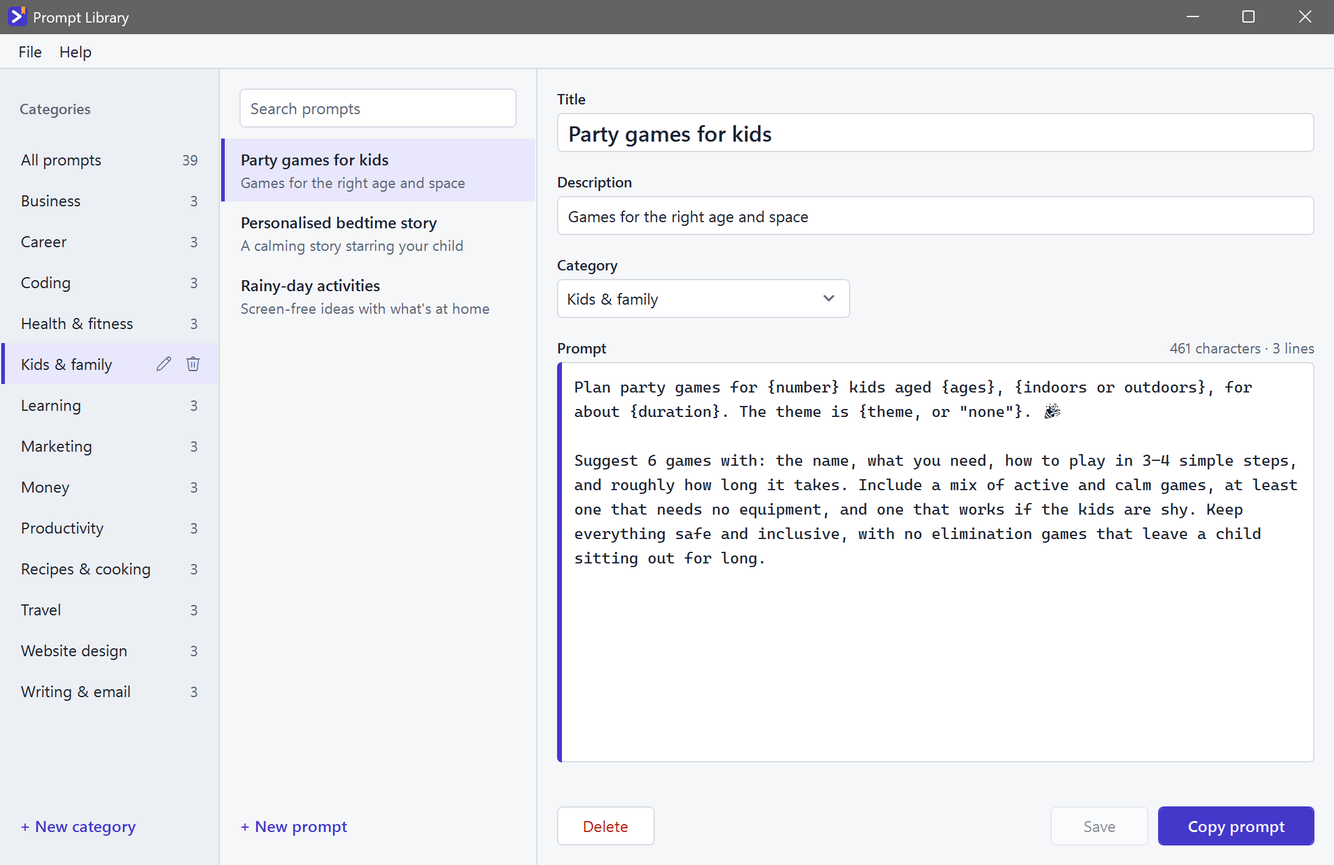
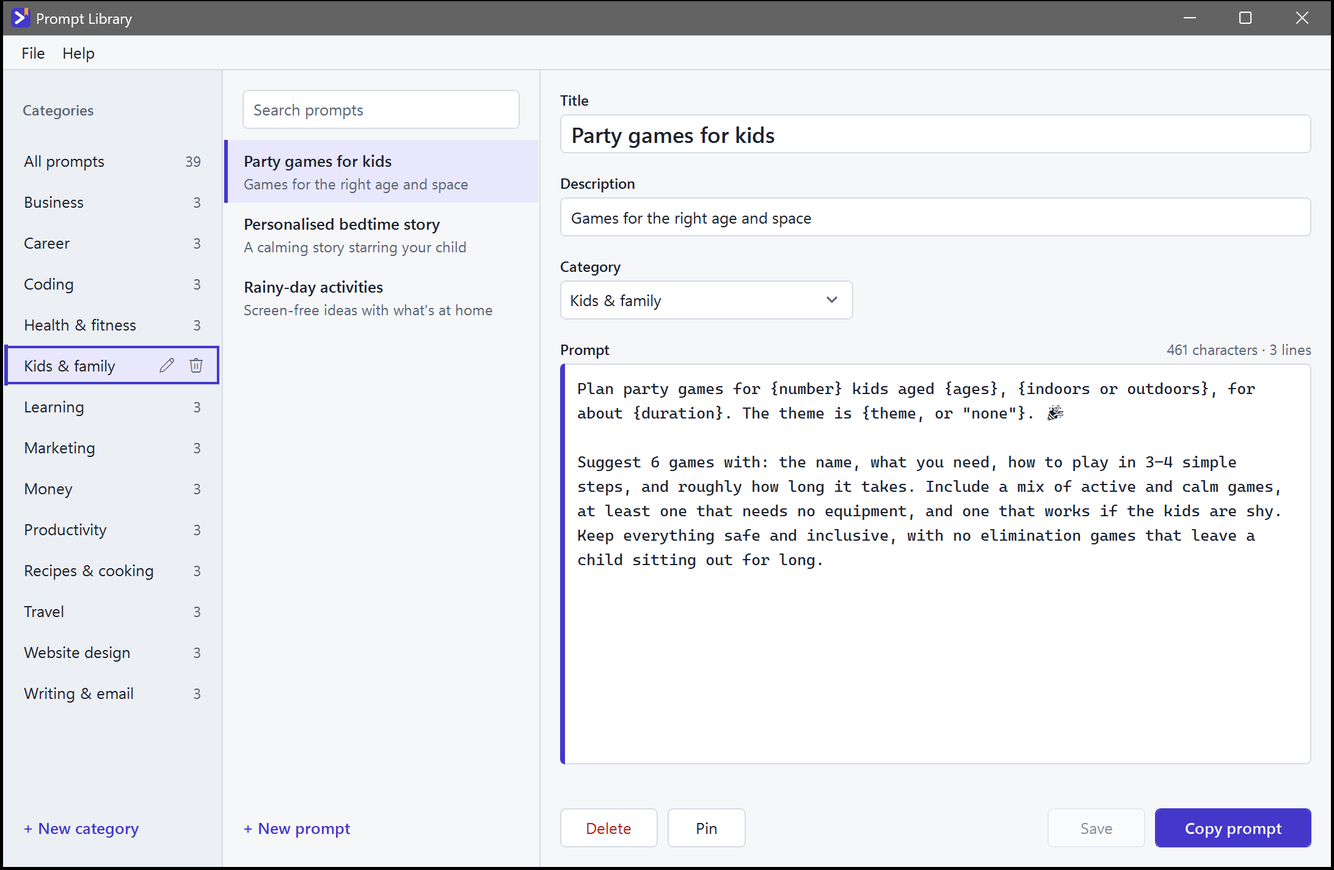
docs: team prompts; release 1.1.0
- README: Team prompts section with new screenshots (Acme best practice demo
  library), team privacy line, setup step 3 of 5, a "How does a team share
  prompts?" answer, re-shot main-window images (the editor now shows Pin),
  version badge 1.1.0.
- DEVELOPMENT.md: Team library section (file format, sources and links,
  saving and history, sync conflicts, write probe, refresh, offline copy,
  per-PC state, Start, testing by hand) and team-cache.json in the data table.
- manual-test-checklist.md: Team prompts section; setup is now 5 steps.
- ui-review-results.md: round 4 scores for every new or changed screen.
- Version 1.1.0.

diff --git a/docs/manual-test-checklist.md b/docs/manual-test-checklist.md
@@ -5,14 +5,15 @@ Run on a real Windows PC with the Release exe (`publish\PromptLibrary.exe`) or t
 Tip: to start clean, exit the app and delete `%APPDATA%\PromptLibrary`. Release builds add a `PromptLibrary` value under `HKCU\Software\Microsoft\Windows\CurrentVersion\Run`; remove it afterwards if you don't want startup.
 
 ## First run & setup
-- [ ] Start with no `%APPDATA%\PromptLibrary`. Expected: the "Welcome to Prompt Library" wizard opens at step 1 of 4, and no tray balloon appears.
-- [ ] A tray icon is present; hovering shows `Prompt Library (Ctrl+Alt+P)`. The library holds 12 sample prompts.
+- [ ] Start with no `%APPDATA%\PromptLibrary`. Expected: the "Welcome to Prompt Library" wizard opens at step 1 of 5, and no tray balloon appears.
+- [ ] A tray icon is present; hovering shows `Prompt Library (Ctrl+Alt+P)`. The library holds 39 starter prompts in 13 categories.
 - [ ] Wizard step 2: press Ctrl+Alt+P. Expected: a check line confirms it. After the wizard closes, the same keys open the quick menu.
 - [ ] Step 2: Change shortcut, press Ctrl+Alt+K. Expected: keycaps update and "Saved. Try it now..." appears. Esc in the box cancels only the capture; a second Esc skips the wizard.
 - [ ] Step 2: choose a combination another app owns (start another hotkey tool first). Expected: "That shortcut is in use by another app." and it keeps listening.
 - [ ] Step 2: Alt+F4 while listening closes the window. Enter moves through the steps.
-- [ ] Step 3: pick a backup card, or Choose another folder with a scratch folder. Expected: it backs up and shows success. Keyboard focus lands on the selected card.
-- [ ] Step 4: untick paste and finish. Expected: Settings shows paste off. Closing the wizard with x from any step skips it safely and it does not reappear on the next start.
+- [ ] Step 3: Next without joining. Expected: no team switch afterwards. (Joining from here is in Team prompts below.)
+- [ ] Step 4: pick a backup card, or Choose another folder with a scratch folder. Expected: it backs up and shows success. Keyboard focus lands on the selected card.
+- [ ] Step 5: untick paste and finish. Expected: Settings shows paste off. Closing the wizard with x from any step skips it safely and it does not reappear on the next start.
 - [ ] Leave the wizard early while the shortcut is taken by another app. Expected: the tray shows the "in use by another app" message once. With no conflict, no message.
 - [ ] Settings, Change shortcut, press a combination another app owns. Expected: "That shortcut is in use by another app."; normal typing in other apps is unaffected.
 
@@ -76,6 +77,46 @@ Build an older version first (`dotnet build src/PromptLibrary.App -p:Version=1.0
 - [ ] Help → Check for updates… with the network off. Expected: "Couldn't check for updates…". With it on: the dialog, even after Not now.
 - [ ] Update now (installed build, with unsaved edits open). Expected: download progress, then "Save changes?"; Cancel keeps the app running. Save: the app closes, the installer opens, and after it finishes the new version starts.
 - [ ] Run the current version. Expected: no notification and no reminder.
+
+## Team prompts
+
+Use stand-in folders, never a real shared folder: run with `PROMPTLIBRARY_DEBUG_NO_CLOUDS=1` (Debug) and back up `%APPDATA%\PromptLibrary` first. Make folders `team-a` and `team-b` somewhere outside OneDrive / Google Drive / Dropbox.
+
+**Solo user**
+- [ ] Not joined. Expected: no Your/Team switch, no Team block or headings in the shortcut menu; Settings shows "Team prompts" with Join a team library and Start a team library; the editor shows Pin.
+
+**Start and join**
+- [ ] Settings → Start a team library: a folder that doesn't exist. Expected: "Can't reach that folder. Check the path, and that the drive or network is connected."
+- [ ] Start in `team-a`, name "Acme best practice", "Add example business prompts" ticked. Expected: `team-a\team-prompts.json` is written, the switch appears, the Team side shows 24 prompts in 6 categories, Settings shows "Connected to Acme best practice", the folder and "Updated today, …".
+- [ ] Start again in `team-a` from another PC or after leaving. Expected: "This folder already has a team library (Acme best practice)." with Join it; the file is not overwritten.
+- [ ] Copy `team-prompts.json` to `team-b` and run `attrib +r team-prompts.json` there. Leave, then Join `team-b`. Expected: "Checking…" with a progress bar while it reads; the Team header shows "Read only" (no Edit team library, no ⋯); nothing is marked New on first join.
+- [ ] Join a folder holding some other JSON file named `team-prompts.json`. Expected: "That isn't a Prompt Library team file." and nothing changes. Join `\nohost\share`. Expected: "Checking…", then "Can't reach that folder…".
+- [ ] Join a OneDrive or Google Drive share link. Expected: "That link opens a web page, not the file…".
+
+**Members**
+- [ ] Ctrl+2 shows Team prompts and Ctrl+1 Your prompts. The open team prompt has the lock line "Team prompt · Acme best practice · read only"; title, description and prompt read as normal text, not greyed.
+- [ ] Copy prompt on a team prompt (the button and Ctrl+Shift+C). Expected: copied, as for your own.
+- [ ] Make my copy on "Follow-up email after a meeting". Expected: one click, the window switches to Your prompts with the copy open in a "Sales" category, status "Copied to your prompts · Sales".
+- [ ] Pin two prompts (one yours, one the team's). Expected: "Pinned", a pin glyph on the rows, a flat Pinned block at the top of the shortcut menu with the team icon on the team one. Pin an 11th. Expected: "You can pin up to 10 prompts."
+- [ ] Hide from menu on a team prompt. Expected: "Hidden from the menu", it leaves the list and the shortcut menu, "Show hidden (1)" appears under the search box; ticking it lists the prompt greyed; right-click → Unhide brings it back ("Unhidden").
+- [ ] Right-click a team row. Expected: Pin / Unpin and Hide from menu / Unhide. On a hidden row Pin is disabled.
+- [ ] Search "email" on either side. Expected: results from both, team ones with the team icon; opening a result from the other side switches sides and keeps the search text.
+- [ ] Shortcut menu: "Team prompts" heading, the team categories with the team icon, then "Your prompts" and your categories. With 7 or more team categories the team block is one "Team prompts ▸" submenu.
+- [ ] Another editor adds a prompt. Expected: within a few seconds a "New" tag and a dot on the Team switch; a changed prompt shows "Updated"; opening it or Mark all as seen clears them.
+
+**Editors** (joined to `team-a`)
+- [ ] Edit team library. Expected: the bar "Editing team library: changes go to everyone · Done", and Delete · Pin | Save · Copy prompt in the editor. Fix a typo and Save. Expected: "Saved for everyone", and a copy of the old file in `team-a\Prompt Library history\`.
+- [ ] Delete a team prompt. Expected: "Delete "…"? This removes it for everyone." first.
+- [ ] Mid-edit, change `team-prompts.json` in a text editor, then Save in the app. Expected: "Someone else changed the team library, so it's been reloaded. Your change is still here: check it and save again." Your typed text is still in the editor; Save again keeps both changes.
+- [ ] ⋯ → Restore an older version…. Expected: versions listed "Today, 08:36 · 24 prompts", newest first; Restore asks first, then "Restored for everyone".
+- [ ] Copy `team-prompts.json` to `team-prompts-LAPTOP.json`. Expected: "Two versions of the team library found · Review". Review lists "Other version from sync · …" first. Keep current version (or Restore it). Expected: the notice clears and the copy moves into the history folder.
+- [ ] Close the window while editing. Expected: edit mode ends; unsaved text gets the usual "Save changes?".
+
+**Offline and leaving**
+- [ ] Rename `team-a` and restart the app. Expected: the Team prompts still show; the header reads "Last updated … · can't reach the team library · Retry"; Settings shows the reason with Retry. Rename it back and press Retry. Expected: back to "Acme best practice · updated …".
+- [ ] Settings → Leave team library → Leave. Expected: the switch, Team block and pins on team prompts are gone; `%APPDATA%\PromptLibrary\team-cache.json` is deleted; your copies stay.
+- [ ] Setup guide (Help → Setup guide…), step 3 of 5 "Does your team share prompts?": Join a team library and Start a team library open the same dialogs; Next skips; once joined it shows "Connected to …".
+- [ ] Minimum window size (860×520) on the Team side, in edit mode and with a new prompt. Expected: nothing cut off (the window's minimum height grows while the switch and edit bar show).
 
 ## Scaling & accessibility
 - [ ] At 100%, 150% and 200% display scaling (sign out and in after changing): main window, quick menu, Settings, Restore and the wizard are sharp, nothing is clipped, and the minimum window size still works.

diff --git a/README.md b/README.md
@@ -17,7 +17,7 @@ ChatGPT, Claude, Copilot, your terminal, your IDE: one library for all of them.
   <img src="https://img.shields.io/badge/Windows-10%20%7C%2011-4338CA" alt="Windows 10 and 11" />
   <img src="https://img.shields.io/badge/no%20account-no%20tracking-F5A524" alt="No account, no tracking" />
   <img src="https://img.shields.io/badge/installs%20without-admin%20rights-1B2230" alt="Installs without admin rights" />
-  <img src="https://img.shields.io/badge/version-1.0.2-4338CA" alt="Version 1.0.2" />
+  <img src="https://img.shields.io/badge/version-1.1.0-4338CA" alt="Version 1.1.0" />
   <a href="LICENSE"><img src="https://img.shields.io/badge/license-GPL--3.0-4338CA" alt="License: GPL-3.0" /></a>
 </p>
 
@@ -89,7 +89,7 @@ You've written a prompt that works. Then it disappears into a notes app, a chat 
     </td>
     <td width="50%" valign="top">
       <h3>🔒 Private by default</h3>
-      <p>No account. No sign-in. No tracking. Your prompts live on your PC and in the backup folder you choose, and nowhere else. Once a day the app asks GitHub whether a newer version exists; nothing about you or your prompts is sent.</p>
+      <p>No account. No sign-in. No tracking. Your prompts live on your PC and in the backup folder you choose, and nowhere else. If you join a team library, the app only reads the team's shared file; your own prompts are never written to it. Once a day the app asks GitHub whether a newer version exists; nothing about you or your prompts is sent.</p>
     </td>
   </tr>
   <tr>
@@ -100,9 +100,46 @@ You've written a prompt that works. Then it disappears into a notes app, a chat 
 
 <br/>
 
+## Share best-practice prompts with your team
+
+**New in 1.1.** One person keeps the team's proven prompts in a shared folder (a network drive, or a OneDrive, Google Drive or Dropbox folder) and everyone gets them, in the main window, in search and in the shortcut menu. Team prompts update by themselves, keep working offline, and can't be changed by accident. Your own prompts stay yours, right next to them.
+
+<table>
+  <tr>
+    <td width="50%" valign="top">
+      <h3>👥 Team prompts, side by side with yours</h3>
+      <p>Switch between <b>Your prompts</b> and <b>Team prompts</b> (<kbd>Ctrl</kbd> + <kbd>1</kbd> / <kbd>Ctrl</kbd> + <kbd>2</kbd>). Team prompts carry a team icon and open read only. <b>Make my copy</b> gives you your own version to change, <b>Pin</b> puts favourites at the top of the menu, and <b>Hide from menu</b> tidies away the ones you don't use. New and updated prompts get a quiet tag until you've seen them.</p>
+    </td>
+    <td width="50%" valign="top">
+      <h3>✏ Curated in the app, safely</h3>
+      <p>Whoever can change files in the shared folder can choose <b>Edit team library</b>: every save goes to everyone. Nobody overwrites anyone: if someone else saved first, your change is kept and you save again. Every save keeps a copy, so <b>Restore an older version</b> undoes anything, and copies left by file sync can be reviewed.</p>
+    </td>
+  </tr>
+  <tr>
+    <td><img src="docs/images/team-prompts.png" alt="The Team prompts side: Acme best practice, a read-only team prompt with Copy prompt and Make my copy" /></td>
+    <td><img src="docs/images/team-editing.png" alt="Editing the team library: the bar says changes go to everyone" /></td>
+  </tr>
+  <tr>
+    <td width="50%" valign="top">
+      <h3>🔗 Join with one box</h3>
+      <p>Settings → Team prompts → <b>Join a team library</b>, paste or browse to the shared folder (or a direct link to the file), and Join. Starting one is just as quick: pick the folder, name it, and begin with 24 example business prompts for sales, support, marketing, management, HR and operations, or copy in your own categories.</p>
+    </td>
+    <td width="50%" valign="top">
+      <h3>⌨ In the shortcut menu too</h3>
+      <p>Pinned prompts come first, then the team's categories and your own, under "Team prompts" and "Your prompts" headings. A big team library folds into one submenu, so it never pushes your own prompts off the screen.</p>
+    </td>
+  </tr>
+  <tr>
+    <td><img src="docs/images/team-join.png" alt="Join a team library: one box for a shared folder, file or link" /></td>
+    <td align="center"><img src="docs/images/team-menu.png" alt="The shortcut menu with pinned prompts, team categories and your categories" width="300" /></td>
+  </tr>
+</table>
+
+<br/>
+
 ## Ready in under a minute
 
-Install it, and a short setup gets you going: try the shortcut, pick where backups go, and you're done. You start with 39 ready-made prompts across 13 categories, from marketing and business to recipes, travel, kids' games and personal productivity, so it's useful from the first minute.
+Install it, and a short setup gets you going: try the shortcut, join your team's prompts if it shares them, pick where backups go, and you're done. You start with 39 ready-made prompts across 13 categories, from marketing and business to recipes, travel, kids' games and personal productivity, so it's useful from the first minute.
 
 <table>
   <tr>
@@ -117,8 +154,8 @@ Install it, and a short setup gets you going: try the shortcut, pick where backu
     <td><img src="docs/images/setup-shortcut.png" alt="Setup, step 2: try the shortcut" /></td>
   </tr>
   <tr>
-    <td><img src="docs/images/setup-backups.png" alt="Setup, step 3: choose where backups go" /></td>
-    <td><img src="docs/images/setup-done.png" alt="Setup, step 4: you're all set" /></td>
+    <td><img src="docs/images/setup-team.png" alt="Setup, step 3: join or start a team library, or skip" /></td>
+    <td><img src="docs/images/setup-done.png" alt="Setup, step 5: you're all set" /></td>
   </tr>
 </table>
 
@@ -131,6 +168,7 @@ Install it, and a short setup gets you going: try the shortcut, pick where backu
 - **Students and lifelong learners** turning any topic into a plan, an explanation or a quiz.
 - **Job seekers** tailoring a CV, practising interviews and preparing to ask for a raise.
 - **Developers** pasting go-to prompts straight into Claude Code, Copilot Chat or the terminal.
+- **Small teams** (about 5 to 50 people) who want everyone using the same proven prompts.
 - **Anyone** who's tired of rewriting the same instructions from memory.
 
 <details>
@@ -190,6 +228,12 @@ Each one fills in your details through `{placeholders}`, tells the AI exactly wh
   <summary><b>Can I just copy, without the automatic paste?</b></summary>
   <br/>
   Yes. Turn off "Paste into the app I was using" in Settings, and picking a prompt only copies it.
+</details>
+
+<details>
+  <summary><b>How does a team share prompts?</b></summary>
+  <br/>
+  One person chooses Settings → Team prompts → <b>Start a team library</b> and picks a folder the team can open (a network drive, or a shared OneDrive, Google Drive or Dropbox folder). Everyone else chooses <b>Join a team library</b> and picks the same folder. A public link to the file also works if it opens the file itself (a GitHub raw link or a Dropbox link); OneDrive and Google Drive share pages don't, so use the synced folder. Who can edit is decided by the folder's own sharing: if your PC can change the file, you see <b>Edit team library</b>.
 </details>
 
 <details>

diff --git a/docs/DEVELOPMENT.md b/docs/DEVELOPMENT.md
@@ -60,6 +60,22 @@ The app asks GitHub for the latest release (`GET /repos/{owner}/{repo}/releases/
 - **Releases** therefore need the MSI attached as an asset; GitHub adds the `digest` automatically.
 - **To test against a real release,** build an older version: `dotnet build src/PromptLibrary.App -p:Version=1.0.0`, then run with both debug switches above and use Help → Check for updates…. Back up `%APPDATA%\PromptLibrary` first and delete `update-check.json` to start fresh.
 
+### Team library
+
+A team shares one file, `team-prompts.json`, in a shared folder (network drive, or a OneDrive / Google Drive / Dropbox synced folder) or at a public https link. Members see it read-only on the **Team prompts** side; anyone whose PC can write to the file can choose **Edit team library**. The code is in `src/PromptLibrary.Core/Team/` (format, reading, writing, pins and markers) and `src/PromptLibrary.App/Team/TeamLibraryService.cs` (refresh, offline copy, joining, saving).
+
+- **File format:** the same shape as `library.json` (`schemaVersion`, `categories`, `prompts` with GUID IDs and `createdAt` / `updatedAt`), plus `"kind": "prompt-library-team"`, a `name` (for example "Acme best practice") and an `updatedAt`. Unknown fields are kept when the app saves, so a later version can add some. A file with a higher `schemaVersion` can still be viewed but not edited.
+- **Sources:** one box takes a folder (the app looks for `team-prompts.json` in it), the file itself, or an https link. A link must return the file: GitHub raw links and Dropbox links work (Dropbox `dl=0` is rewritten to `dl=1`, GitHub `/blob/` to raw). A link that returns a web page (OneDrive and Google Drive share pages) is refused with a message saying so. Links are https only, no sign-in, 15 s time limit, 2 MB cap, the normal `PromptLibrary/<version>` User-Agent, and never a redirect to http.
+- **Saving (editors):** before each save the app re-reads the file and compares its SHA-256 with the one it loaded. If someone else changed it, the save is refused, the library reloads and the typed change stays in the editor to save again. Otherwise the current file is copied to `Prompt Library history\team-prompts <yyyy-MM-dd_HHmmss>.json` next to it (the newest 30 are kept) and the new file is written atomically. **⋯ → Restore an older version…** lists that history.
+- **Sync conflicts:** sibling files named `team-prompts*.json` (OneDrive's `team-prompts-PCNAME.json`, Dropbox's `… (conflicted copy …).json`) make editors see "Two versions of the team library found · Review". Restoring one, or **Keep current version**, moves the copies into the history folder.
+- **Write access** is a probe: the file is opened for writing without changing it, at connect, on each refresh and on Retry. Non-writers see "Read only".
+- **Refresh:** at start (from the offline copy first, then the source), every hour, two seconds after a change to a local or synced file (a file watcher), and on **Retry**. Nothing is read on the UI thread. While an editor has the library unlocked, refreshes wait until **Done**. Bad or unreadable data never replaces the last good copy; the Team header then says "can't reach the team library" with Retry, only after a read has failed.
+- **Offline copy:** `%APPDATA%\PromptLibrary\team-cache.json` holds the last good file, when it was read and from where. Personal backups never include team prompts: the shared file is the master and its history is the team's backup.
+- **Per PC** (in `settings.json`): `teamSource`, `pinnedPromptIds` (either library, at most 10), `hiddenTeamPromptIds`, `seenTeamPrompts` (what drives the New / Updated tags) and `teamBaselineTaken`. On first join nothing is marked new. **Leave team library** clears all of these and the offline copy; copies made with **Make my copy** stay.
+- **Start a team library** writes a new file only into a folder that hasn't got one (otherwise it offers **Join it**). It can copy in some of your categories (with new IDs) and, by default, 24 business example prompts in 6 categories (`TeamSeedLibrary`).
+
+**Testing a team by hand.** Never point a test at a real shared folder. Make two stand-in folders anywhere outside your cloud folders, run the app with `PROMPTLIBRARY_DEBUG_NO_CLOUDS=1`, and **Start a team library** in the first (name it "Acme best practice"). Copy its `team-prompts.json` to the second folder and run `attrib +r team-prompts.json` there to get a read-only member. Edit the file in a text editor while the app is in edit mode to try a refused save, copy it to `team-prompts-LAPTOP.json` to try a sync conflict, and rename the folder to try offline. Back up `%APPDATA%\PromptLibrary` first: the app has no switch to use another data folder. The steps are in [manual-test-checklist.md](manual-test-checklist.md#team-prompts).
+
 ### Manual checks
 
 Some things only a real desktop can show (auto-paste into other apps, notifications, display scaling). They're listed in [manual-test-checklist.md](manual-test-checklist.md) and [edge-cases.md](edge-cases.md).
@@ -95,6 +111,7 @@ The MSI installs per user (no admin prompt) to `%LOCALAPPDATA%\Programs\Prompt L
 | `Safety backups\` | Copies made before a restore when backups are off |
 | `crash.log` | Details of any unexpected error |
 | `update-check.json` | When GitHub was last asked about updates, the newest release seen, and the version you said "Not now" to |
+| `team-cache.json` | The last good copy of the team library, for offline use (only while a team library is joined) |
 
 ## Design
 

diff --git a/docs/design/ui-review-results.md b/docs/design/ui-review-results.md
@@ -90,6 +90,47 @@ Everything round 1 flagged has been fixed and works when tested live. That inclu
 - The custom folder's card is still called "Folder".
 - The move list has no "Choose a category" placeholder.
 
+## Round 4: Team prompts (v1.1.0)
+
+**2026-11-07, Debug build of commit ef9fd82.** I scored every new or changed screen of the Team prompts feature from the running app, with `PROMPTLIBRARY_DEBUG_NO_CLOUDS=1`, at 200% (3840×2400), with the demo team library "Acme best practice" in two stand-in folders (one writable, one read-only). The PC was unlocked, so this round I could also send real keys (Tab, Ctrl+1, Ctrl+2, Enter, the Ctrl+Alt+P shortcut) and right-click. Method and weights as in rounds 2 and 3. Full notes and the screenshots: `.superpowers/sdd/2026-11-05-team-prompts/task-11-report.md` and `task-11-shots/`.
+
+### Scores
+
+| Screen | UI round 1 | UI after fixes | Simplicity | Result |
+|---|---|---|---|---|
+| Main window: Team side (member, read only) | 90.1 | 95.0 | 96.25 (main, both sides) | Pass |
+| Main window: Team side, editing | 88.0 | 94.9 | (main) | Pass |
+| Main window: Team side, offline + Retry | 88.9 | 95.8 | (main) | Pass |
+| Main window: search across both libraries | 95.0 | 95.0 | (main) | Pass |
+| Main window: Team side at the minimum size | 82.3 | 94.3 | (main) | Pass |
+| Main window: Your side with the switch | 95.6 | 95.6 | (main) | Pass |
+| Restore an older version (history) | 94.4 | 94.4 | 96.0 | Pass |
+| Restore an older version (review sync copies) | 94.9 | 94.9 | (history) | Pass |
+| Join a team library (empty, Checking…, errors) | 94.9 | 95.75 | 98.25 | Pass |
+| Start a team library | 93.9 | 93.9 | 96.0 | Pass |
+| Settings: Team prompts (not connected / connected / offline) | 86.85 | 93.8 | 95.0 | Pass |
+| Setup guide step 3 of 5 (not connected / connected) | 96.7 | 96.7 | 97.0 (setup guide) | Pass |
+| Shortcut menu with Pinned and Team blocks (criteria 1, 4, 8) | 96.5 | 96.5 | — | Pass |
+| Team delete / refused save / restore / leave questions (criterion 8) | 88.9 | 94.4 | — | Pass |
+
+Targets: UI ≥ 90 on every screen; simplicity ≥ 95 on the main window and the setup guide, ≥ 90 on dialogs. **All met after the fixes.** Main-window simplicity was 93.9 in round 1 (the library name was trimmed to "A…", the offline reason was hidden, and the refused-save message said to make the change again although it was kept).
+
+### Fixed in this round (commit ef9fd82)
+
+1. **Team header trimmed.** In the 260 px list column the header showed "Acme best practice…", "A…" next to Edit team library and Mark all as seen, and "Last updated today, 08…" with the reason cut off. It now sits on the switch's line, which spans the window: "Acme best practice · updated today, 08:40" after the switch, the actions at the right. Nothing is trimmed at 860 px.
+2. **Buttons cut off at the minimum size.** On the Team side the two-line button row lost Copy prompt; in edit mode and with a new prompt the whole row left the window. Read-only prompts drop the unused tab-hint row, and the window's minimum height grows by the switch and edit-bar heights (520 + bars).
+3. **Settings, connected.** "Connected to Acme best practice" was followed by "Connected", with no last update and no Retry, and Leave team library was below the fold. It now reads "Updated today, 08:43", or "Can't reach that folder." + Retry, and the window is 720 px tall.
+4. **Words.** Refused save: "Someone else changed the team library, so it's been reloaded. Your change is still here: check it and save again." A plain folder that can't be reached: "… Check the path, and that the drive or network is connected." Team deletes name the prompt: "Delete "Contract summary"? This removes it for everyone."
+
+### Remaining deductions (all small)
+
+- Scaling tested at 200% only; 100% and 150% need a sign-out.
+- The Start dialog's "Copy some of your categories in" uses WPF's default expander arrow, and with 13 categories ticked open the dialog grows tall.
+- "Read only" shows in the offline header even for an editor (the probe can't open an unreachable file); its tooltip then says "You can't change files in this folder".
+- "Team prompts updated" shows on Done even when nothing arrived while editing (ledgered).
+- An auto-opened first prompt keeps its "New" / "Updated" tag until you pick a prompt yourself (ledgered, by design).
+- The README's Settings and backup-step screenshots are from 1.0 (they don't show the Team prompts section); the Settings section was scored from live shots instead.
+
 ## What round 2 asked to fix (now done)
 
 1. **The "Backed up to…" message is too long.** It shows the full folder path, which wraps over two lines, and the ✓ ends up on a line by itself. Shorten the message to "Backed up." or the folder's name, and keep the ✓ beside the text.
